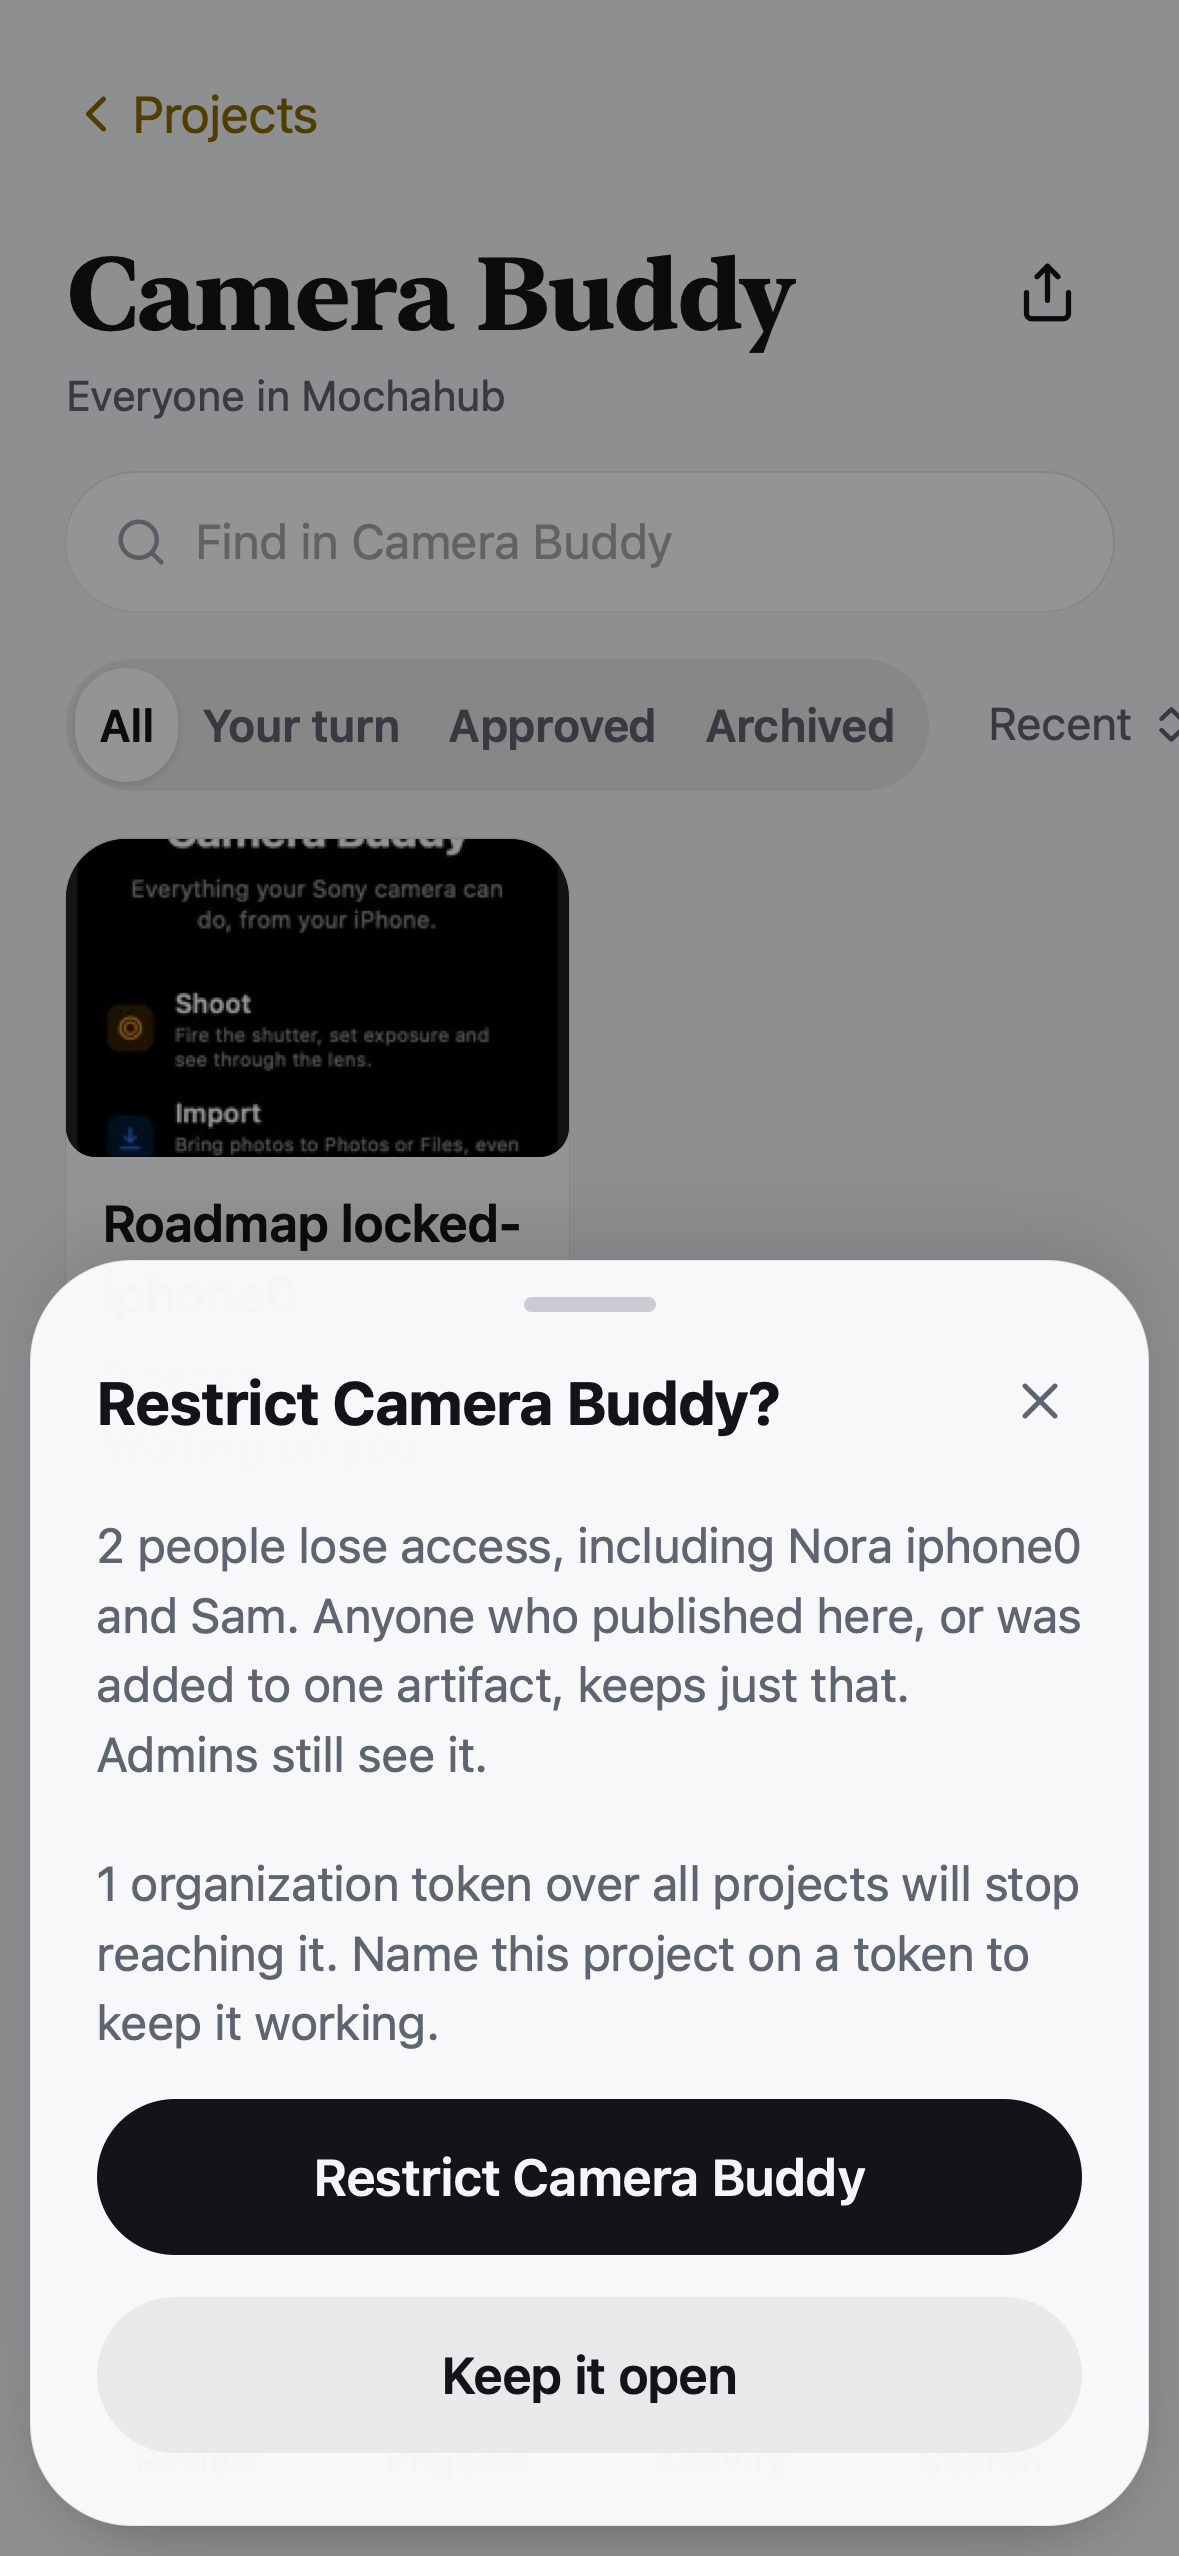
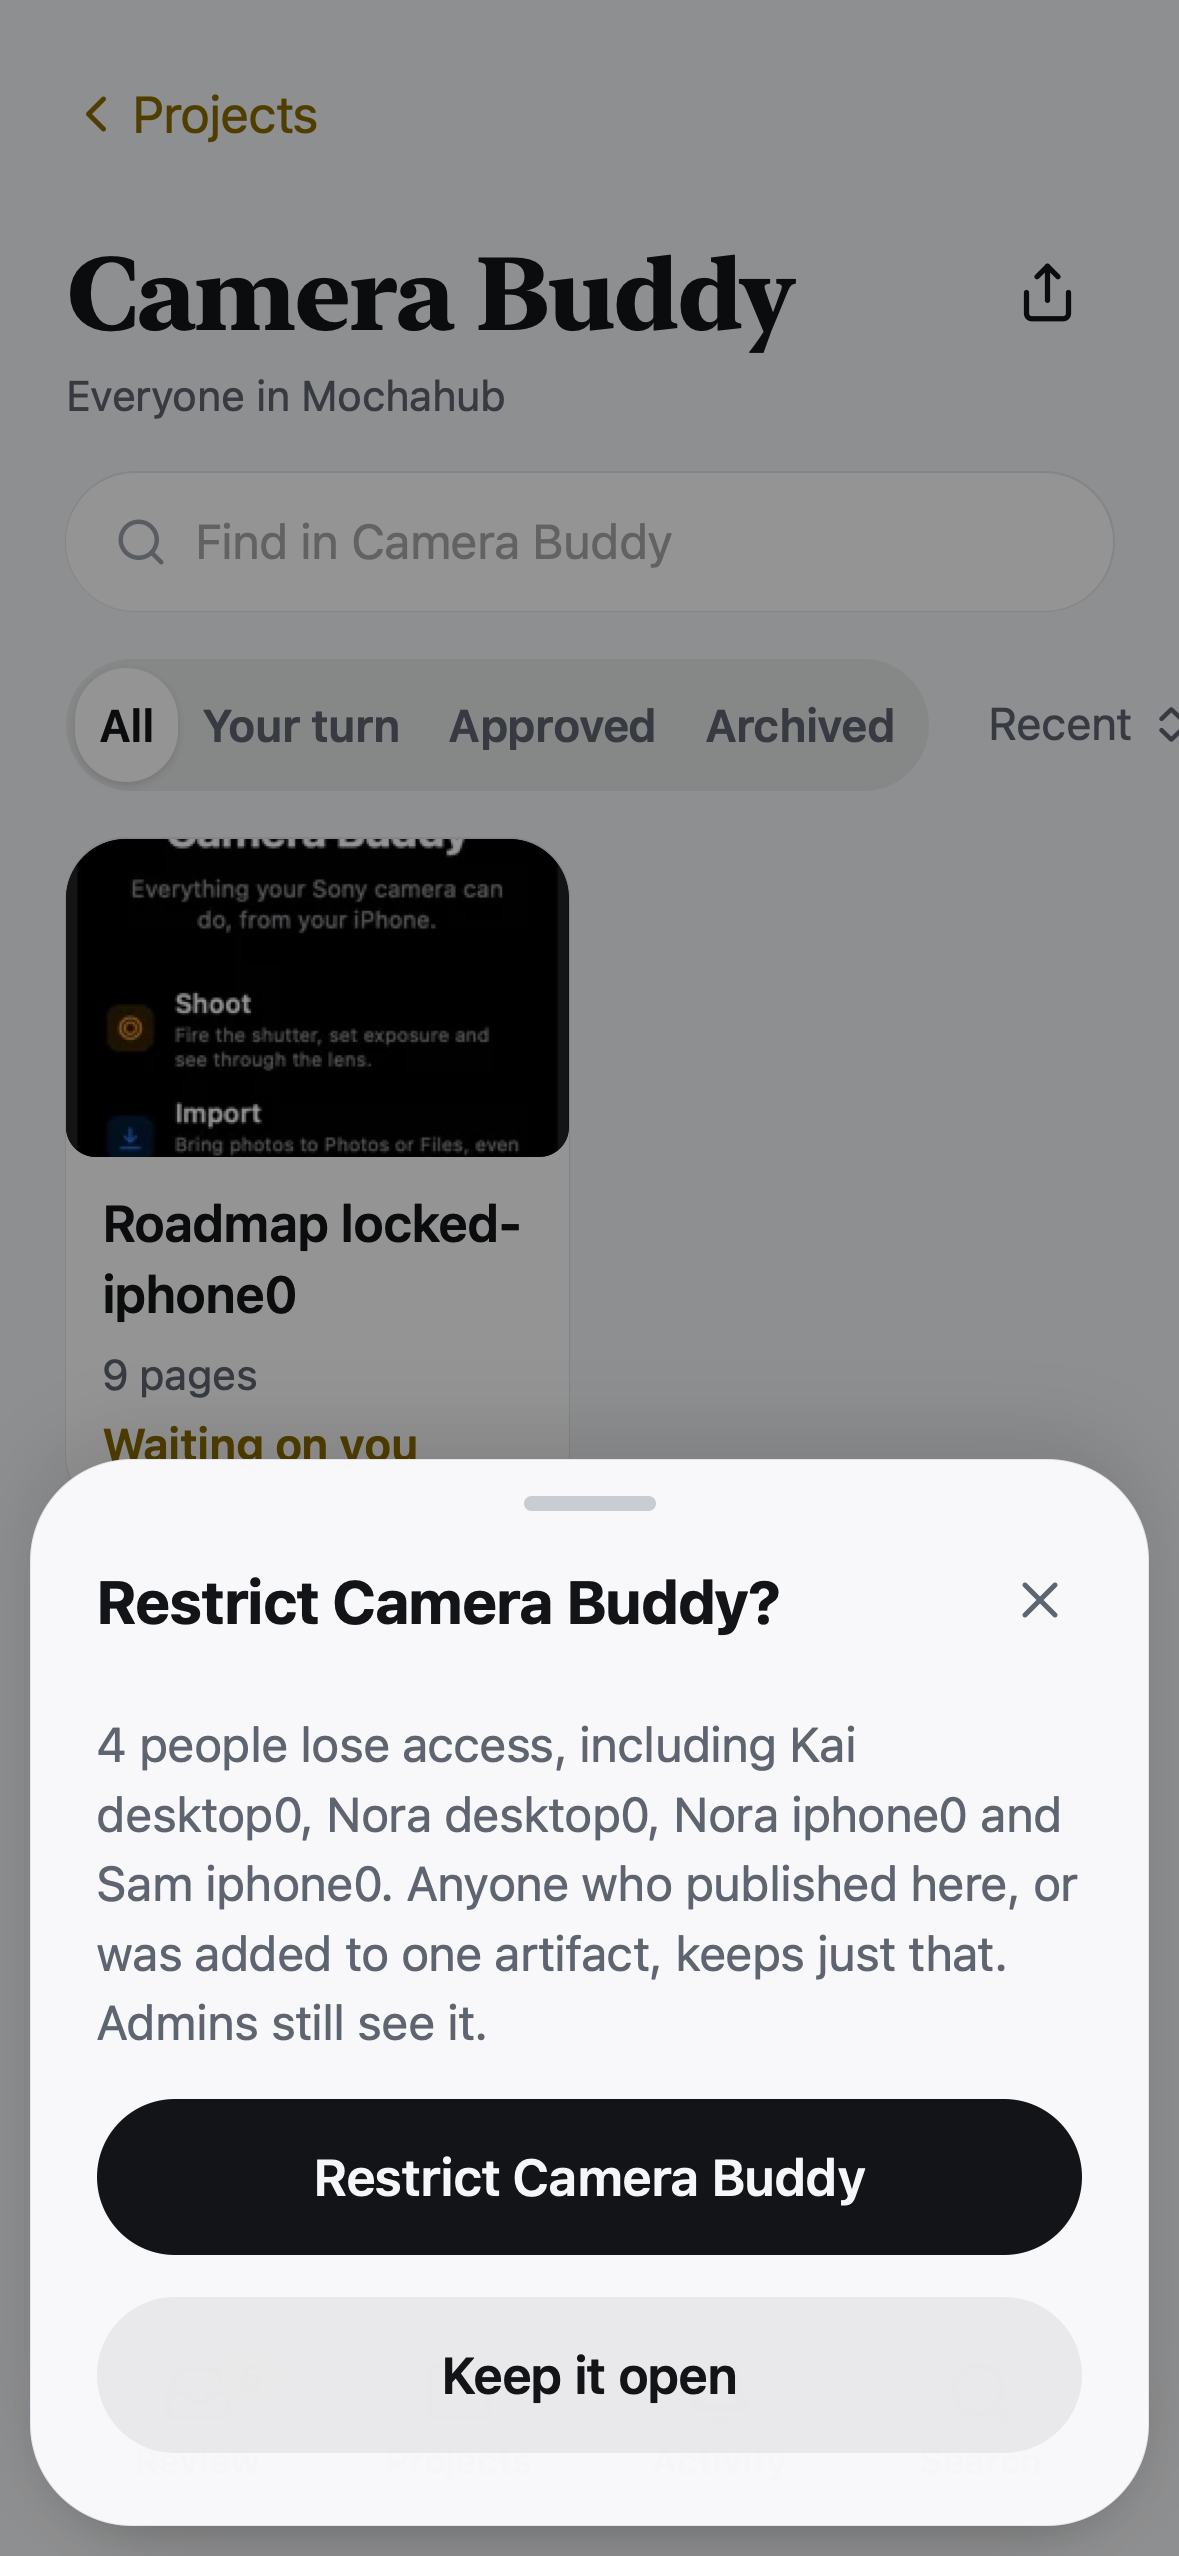
feat(viewer): use fixed words in the Share sheet's access switch

Changed region(s): [[0.0, 0.4945, 0.9771, 0.8036]]

diff --git a/apps/viewer/e2e/projects.e2e.ts b/apps/viewer/e2e/projects.e2e.ts
@@ -17,7 +17,7 @@ test.describe.configure({ timeout: 120_000 });
 
 async function join(page: Page, browser: Browser, project: string, email: string, name: string) {
   await page.goto("/settings/people");
-  await page.getByRole("button", { name: "Invite" }).click();
+  await page.getByRole("button", { name: "Invite", exact: true }).click();
   await page.getByLabel("Email").fill(email);
   await page.getByRole("button", { name: "Copy invite link" }).click();
   const url = await page.locator(".sheet .mono").textContent();
@@ -72,8 +72,8 @@ test("restrict a project: it says what happens, and it's gone for everyone else"
   await expect(kai.page.getByRole("heading", { level: 1 })).toHaveText(`Roadmap ${slug}`);
 
   await page.getByRole("button", { name: "Share" }).click();
-  await page.getByRole("button", { name: "Everyone in Mochahub" }).click();
-  await expect(page.getByRole("button", { name: "Everyone in Mochahub" })).toHaveAttribute(
+  await page.getByRole("button", { name: "Org", exact: true }).click();
+  await expect(page.getByRole("button", { name: "Org", exact: true })).toHaveAttribute(
     "aria-pressed",
     "true",
   );

diff --git a/apps/viewer/src/components/share.tsx b/apps/viewer/src/components/share.tsx
@@ -5,7 +5,6 @@ import { useEffect } from "preact/hooks";
 import { api, message, post } from "../api.ts";
 import { plural } from "../format.ts";
 import { usePoll } from "../poll.ts";
-import { meta } from "../session.ts";
 import { Sheet } from "./sheets.tsx";
 
 export type Level = "view" | "comment" | "publish" | "manage";
@@ -289,9 +288,7 @@ export function ShareSheet({
               })
             }
           >
-            {value === "me"
-              ? "Only people added"
-              : `Everyone in ${restricted ? data?.project?.name : meta.value?.orgName}`}
+            {value === "me" ? "Only people added" : restricted ? "Project" : "Org"}
           </button>
         ))}
       </div>
@@ -603,7 +600,7 @@ export function ProjectShareSheet({
           disabled={!change}
           onClick={() => data.project.restricted && setRestricted(false)}
         >
-          Everyone in {meta.value?.orgName}
+          Org
         </button>
         <button
           type="button"

diff --git a/docs/implementation/06-viewer.md b/docs/implementation/06-viewer.md
@@ -121,7 +121,7 @@ In setup mode, every route renders the "Almost ready" page (06·1).
 3. **Home on desktop:** a left rail with Review, Activity and projects; ⌘K search; a "waiting on you" card grid; recently viewed as a table; an Activity column.
 
 ### 05 · Share, decide, get notified
-1. **Share:** who has access: Everyone in the organization or Only people added, then one field that finds people and teams, or takes an address for an outside invite. Each row says where its access came from: a team links to its page, and inherited rows can't be edited here. Levels are always the same words: Can view, Can comment, Can publish, Can manage. A team an agent added can be confirmed in place. The same sheet serves a whole project, and restricting one first says who loses access, how many links and invites stay live, with an option to revoke them, and which organization tokens stop reaching it. In a restricted project, links and outside invites show only for its managers. Below that: link permission (View / View and comment), expiry, "Copy link"; live links, each revoked by its own row (links are stored hashed, so one can't be shown again).
+1. **Share:** who has access: Org or Only people added (Project inside a restricted project, since names vary in length and the segment has to fit), then one field that finds people and teams, or takes an address for an outside invite. Each row says where its access came from: a team links to its page, and inherited rows can't be edited here. Levels are always the same words: Can view, Can comment, Can publish, Can manage. A team an agent added can be confirmed in place. The same sheet serves a whole project, and restricting one first says who loses access, how many links and invites stay live, with an option to revoke them, and which organization tokens stop reaching it. In a restricted project, links and outside invites show only for its managers. Below that: link permission (View / View and comment), expiry, "Copy link"; live links, each revoked by its own row (links are stored hashed, so one can't be shown again).
 2. **A guest arrives:** the cover; "Zahin shared this with you"; title, description, a "Your name" field, then "Start reviewing".
 3. **Decide:** Approve or Request changes, a note field, the open comments that will go with it, and "Request changes". Fine print: "Claude sees this the next time it runs `artifacts status`".
 4. **Notifications** (Phase 2): an iOS lock-screen example.
